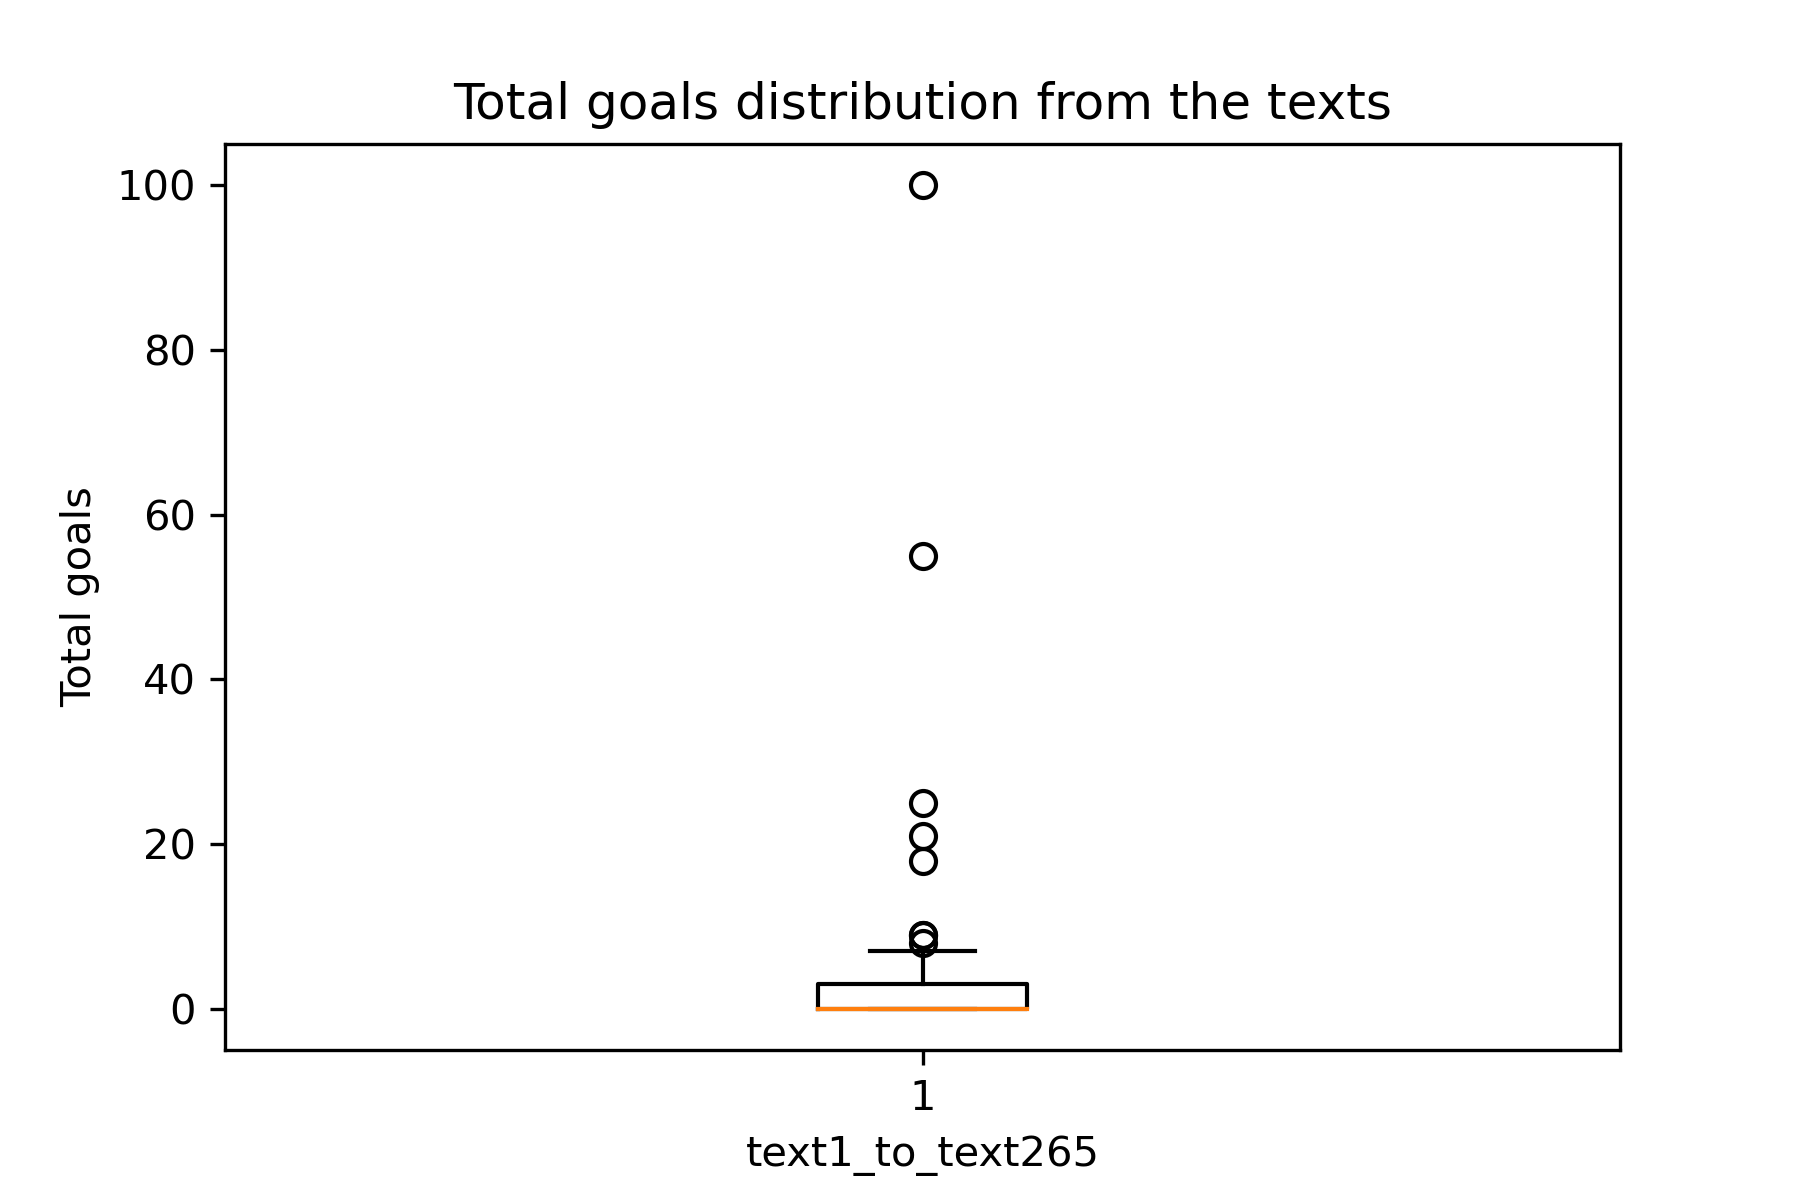
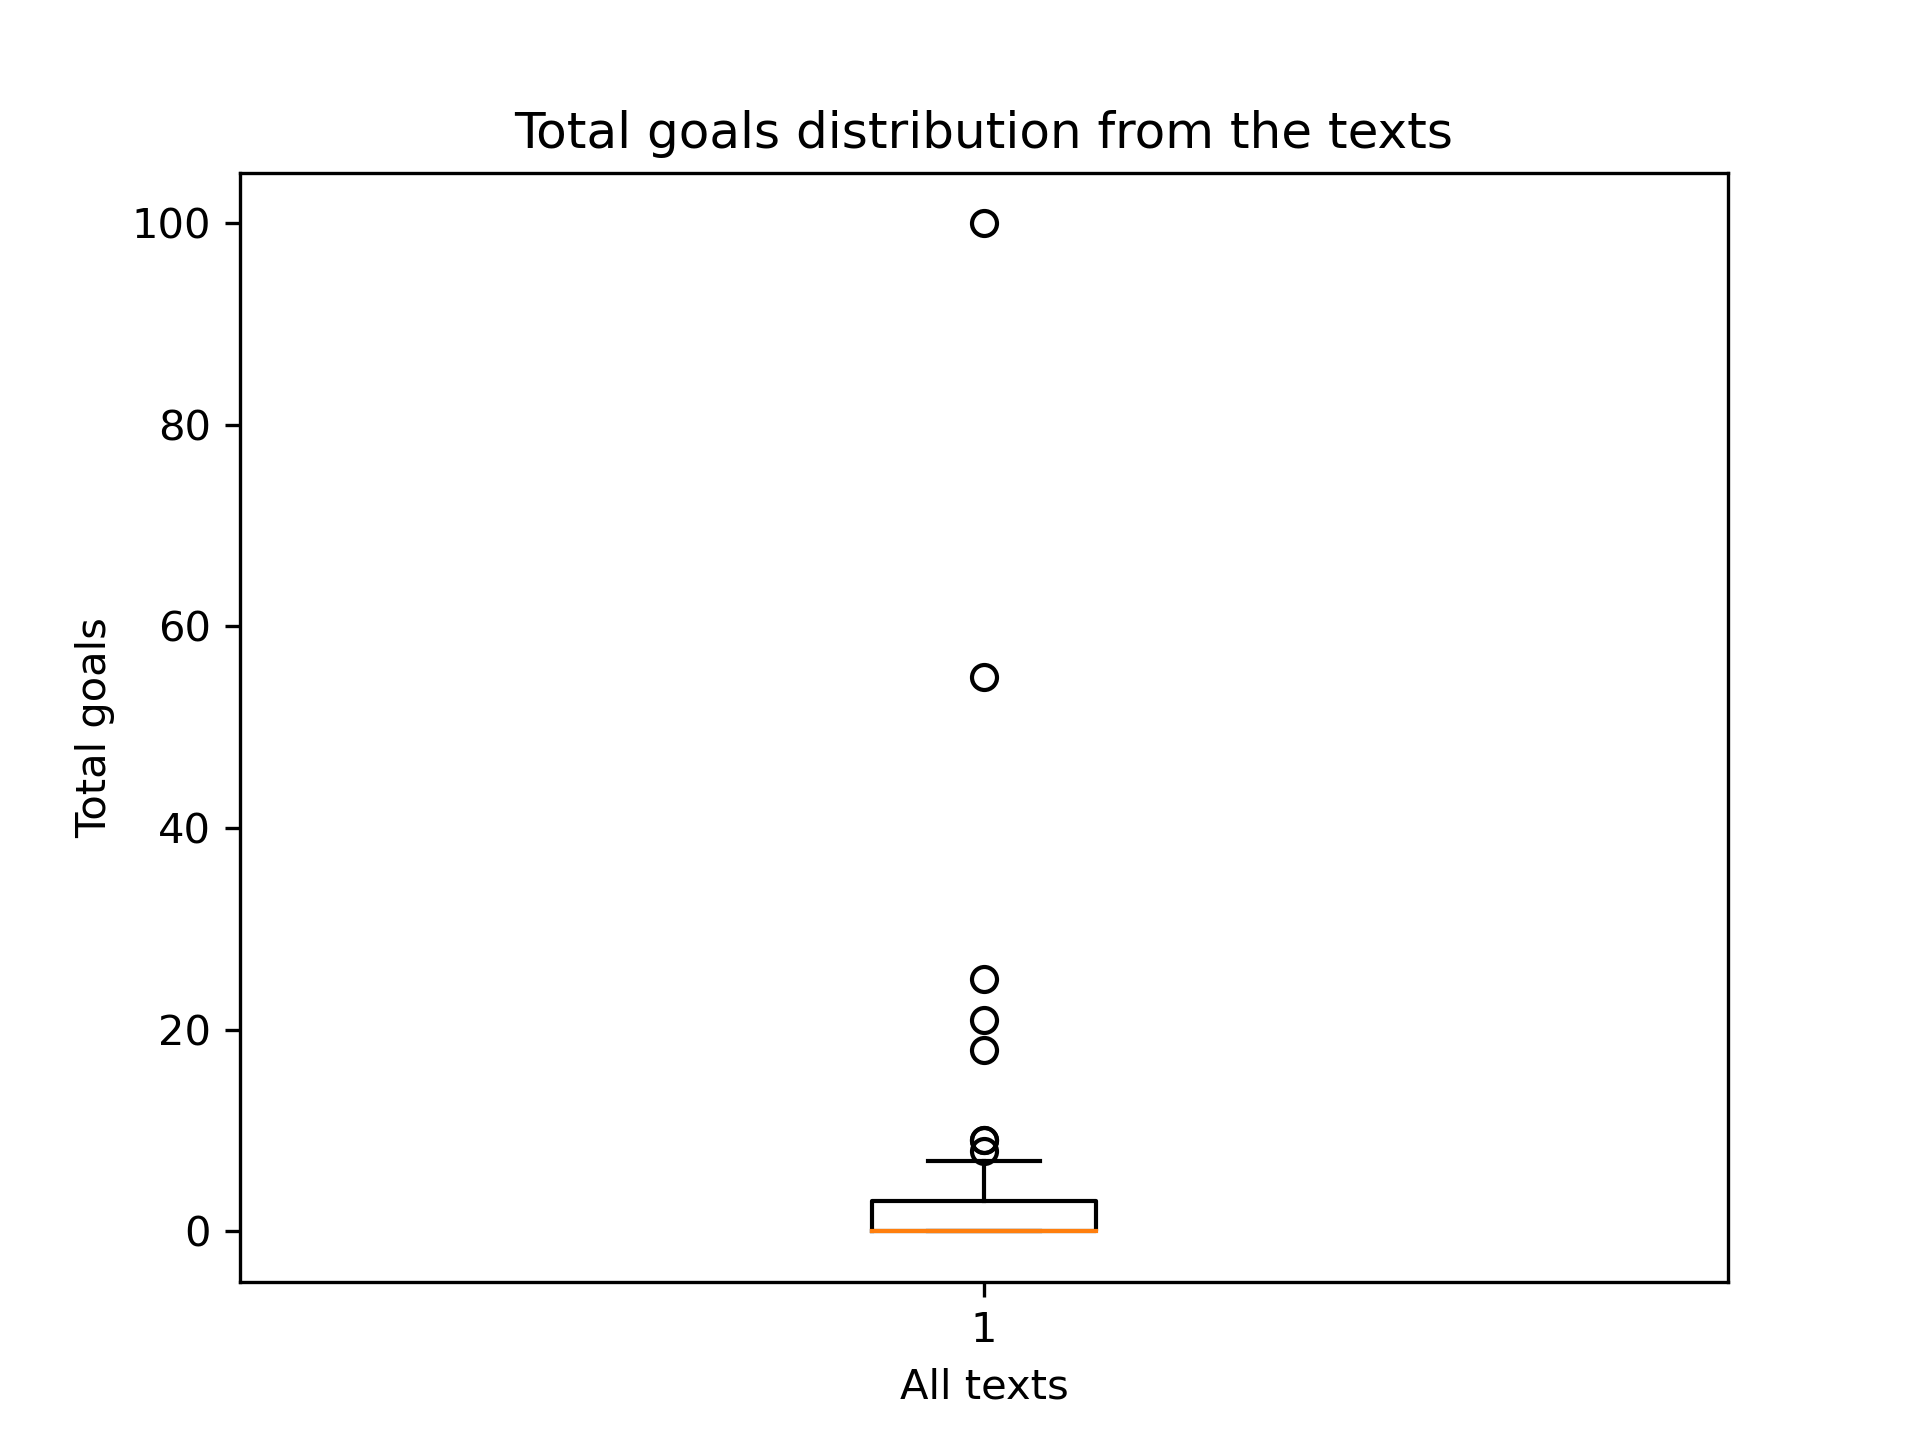
New update 2

diff --git a/assignment1.py b/assignment1.py
@@ -12,12 +12,10 @@ import json
 import csv
 import os
 import re
-import math
 import seaborn as sns
 import nltk
 from nltk import word_tokenize
 from nltk.corpus import stopwords
-import string
 from sklearn.feature_extraction.text import TfidfTransformer
 from numpy.linalg import norm
 
@@ -110,9 +108,7 @@ def find_goal(filename):
 def task4():       #objective complete!
     #Complete task 4 here
     dirs = os.listdir(articlespath)
-    print(dirs)
     file_score = []
-    #print(find_goal(dirs[211]))
     for i in dirs:
         goals = find_goal(i)
         file_score.append(goals)
@@ -121,7 +117,7 @@ def task4():       #objective complete!
     #os.chdir("E:/2021 SM 2 2021.7--11/assignments/EODP/individual/My_assignment")
     plt.boxplot(file_score)
     plt.ylabel("Total goals")
-    plt.xlabel("text1_to_text265")
+    plt.xlabel("All texts")
     plt.title("Total goals distribution from the texts")
     plt.savefig("task4.png", dpi=300)
     plt.show()
@@ -156,15 +152,12 @@ def task5():
     clubdic = {}
     for i in list_tn:
         clubdic[i] = 0
-    #print(clubdic)
     
     dirs = os.listdir(articlespath)
     for i in clubdic.keys():
         for j in dirs:
             count_mention(j, i, clubdic)
     
-    #print(clubdic)    
-    #os.chdir("E:/2021 SM 2 2021.7--11/assignments/EODP/individual/My_assignment")
     task5_out = open("task5.csv", "w", newline = '')
     t5 = csv.writer(task5_out)
     headings = ["club_name", "number_of_mentions"]
@@ -179,7 +172,6 @@ def task5():
     plt.xticks(arange(len(list_tn)), list_tn, rotation = 90)
     plt.ylabel("The number of mentions")
     plt.title("The number of mentions of each team by media")
-    plt.rcParams["figure.figsize"] = (3, 3)
     plt.savefig("task5.png", dpi = 300)
     plt.show()
     return
@@ -197,7 +189,7 @@ def task6():
     #os.chdir("E:/2021 SM 2 2021.7--11/assignments/EODP/individual/My_assignment/data/football")
     #filepath = r'E:/2021 SM 2 2021.7--11/assignments/EODP/individual/My_assignment/data/football'
     dirs = os.listdir(articlespath)
-    task5()
+    #task5()
     file = open("task5.csv", 'r')
     read = csv.reader(file)
     head = next(read)
@@ -220,7 +212,6 @@ def task6():
 
     sim_data = pd.DataFrame(sims, index = name_list)
     sns.heatmap(sim_data, cmap = 'viridis', xticklabels=True)
-    plt.rcParams["figure.figsize"] = (3, 3)
     plt.savefig("task6.png", dpi = 500)
     plt.show()
     return
@@ -249,8 +240,8 @@ def calculate_sim_score(list1, list2, shared):
 
 def task7():
     #Complete task 7 here
-    task2()
-    task5()
+    #task2()
+    #task5()
     data_goal = open("task2.csv", 'r')
     data_mention = open("task5.csv", 'r')
     goal = csv.reader(data_goal)
